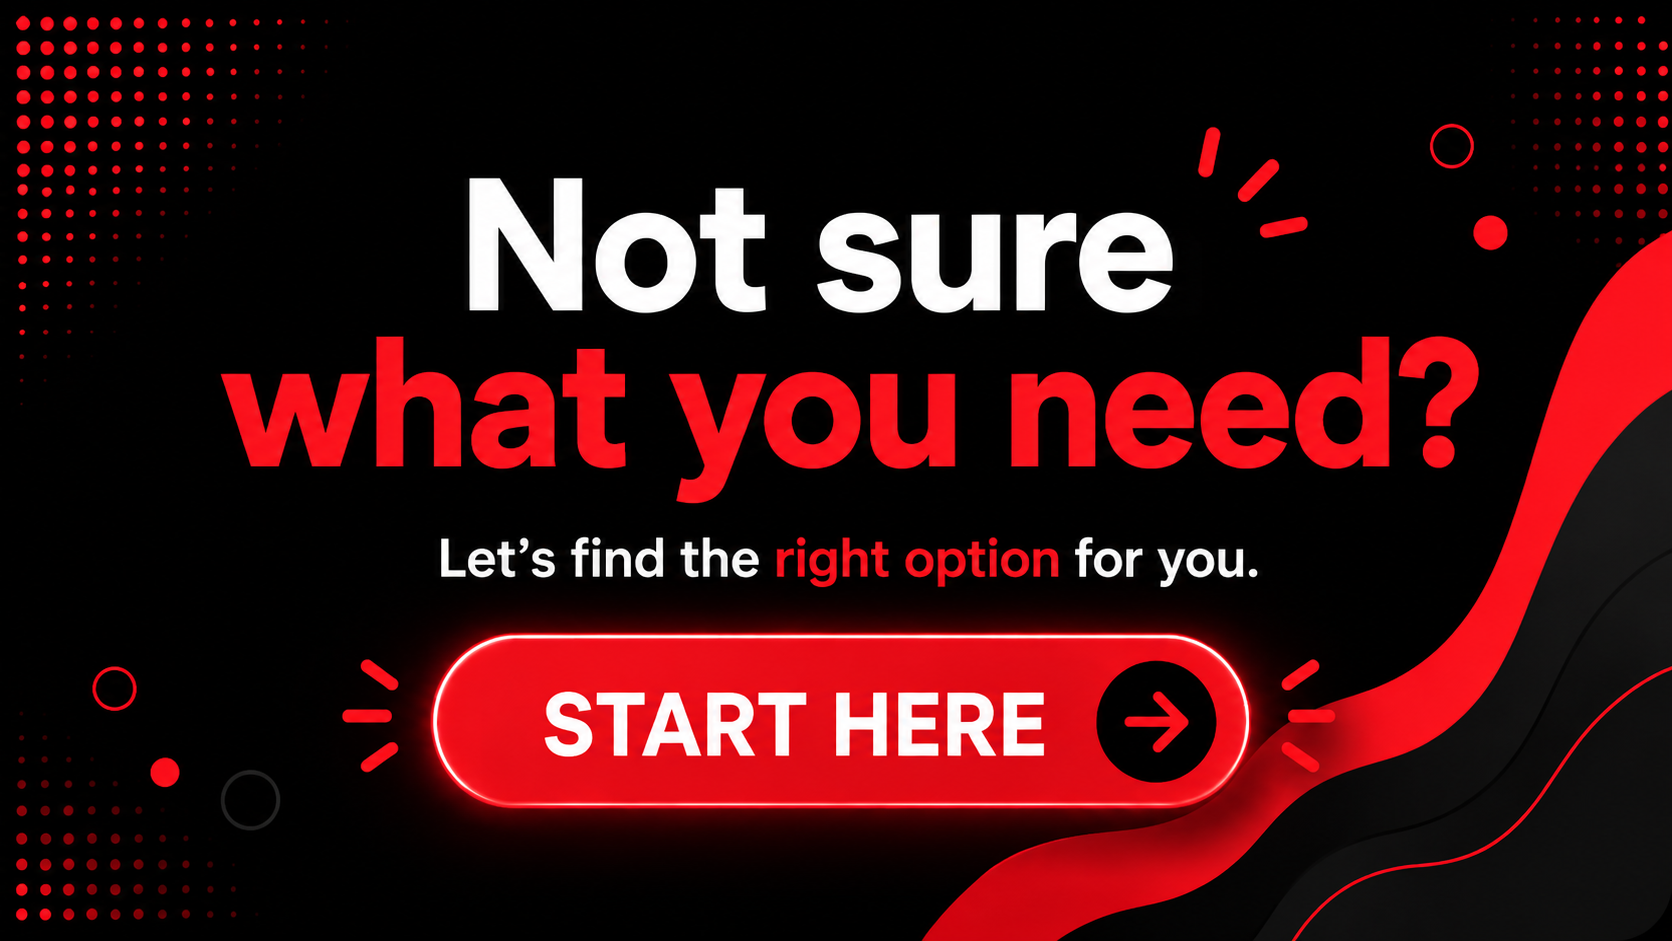
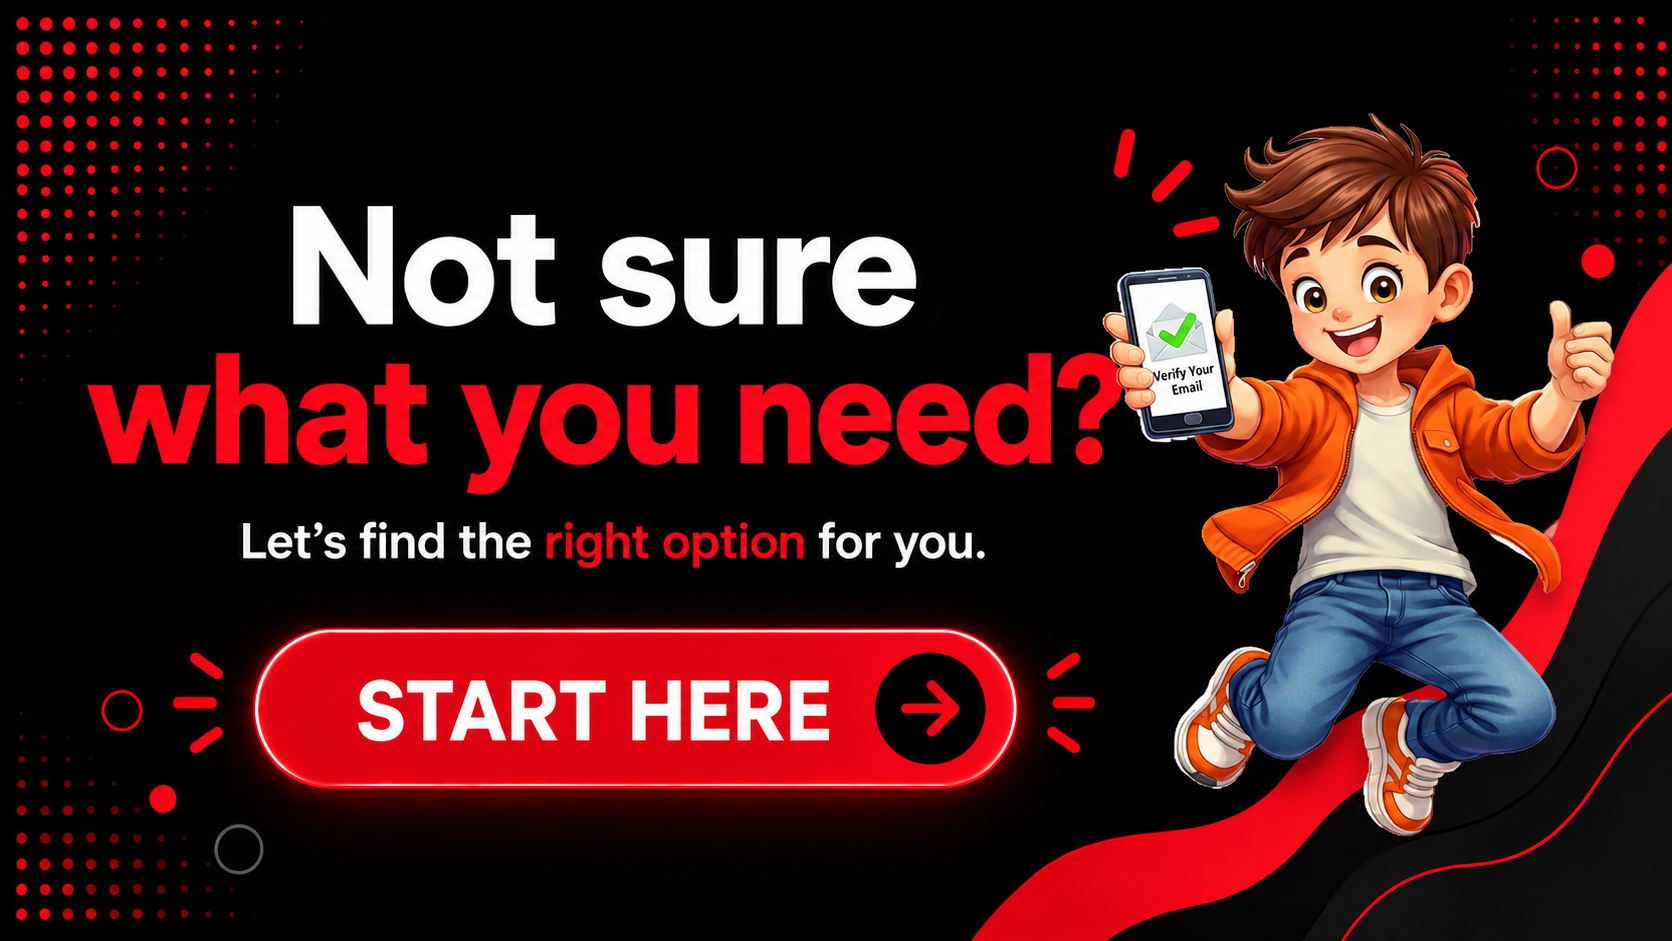
add charecter

diff --git a/src/Pages/Info.jsx b/src/Pages/Info.jsx
@@ -23,7 +23,7 @@ export default function Info() {
             </div>
 
             {/* Scrollable Content */}
-            <section className="flex-1 overflow-y-auto px-6">
+            <section className="flex-1 overflow-y-auto px-6 z-9">
                 <div className="pb-4">
                     <h1 className="mt-14 text-2xl font-semibold text-center">
                         Refill Flow
@@ -37,7 +37,7 @@ export default function Info() {
                         <p>Note : Required For SIM Activation & Invoicing</p>
                     </div>
 
-                    <div className="mt-6 space-y-3">
+                    <div className="mt-6 space-y-3 bg-white/20 backdrop-blur-xl">
                         <input
                             type="text"
                             placeholder="Physical SIM"
@@ -111,12 +111,19 @@ export default function Info() {
                 </div>
             </section>
 
+
+            <img
+                src="/assets/bg-e.png"
+                alt=""
+                className="pointer-events-none fixed -bottom-40 left-1/2 w-130 max-w-xl -translate-x-1/2"
+            />
+
             {/* Fixed Footer */}
-            <div className="shrink-0 bg-white border-t border-gray-100 px-6 py-4">
-                <div className="max-w-[300px] mx-auto grid grid-cols-2 gap-3">
+            <div className="shrink-0 px-6 py-4 z-9">
+                <div className="max-w-75 mx-auto grid grid-cols-2 gap-3">
                     <button
                         onClick={() => window.history.back()}
-                        className="h-10 rounded-full border border-black px-4 text-xs font-semibold flex items-center justify-center gap-2"
+                        className="h-10 rounded-full border border-white text-white px-4 text-xs font-semibold flex items-center justify-center gap-2"
                     >
                         <ArrowLeft className="w-4 h-4" />
                         Back
@@ -124,7 +131,7 @@ export default function Info() {
 
                     <Link
                         to="/term"
-                        className="h-10 rounded-full bg-[var(--primary-color)] text-white text-xs font-semibold flex items-center justify-center"
+                        className="h-10 rounded-full bg-black text-white text-xs font-semibold flex items-center justify-center"
                     >
                         Next
                     </Link>

diff --git a/src/Pages/CheckComp.jsx b/src/Pages/CheckComp.jsx
@@ -30,13 +30,13 @@ export default function CheckComp() {
                 </div>
 
                 {/* Instruction Box */}
-                <div className="mt-8 w-full max-w-[300px] rounded-2xl bg-white shadow-xl py-5 px-4 border border-gray-100">
+                <div className="mt-8 w-full max-w-75 rounded-2xl bg-white shadow-xl py-5 px-4 border border-gray-100">
                     <h3 className="text-xl font-bold text-(--primary-color)">*#06#</h3>
                     <p className="text-xs mt-1 text-gray-600">Your IMEI number will appear on the screen</p>
                 </div>
 
                 {/* IMEI Input Section */}
-                <div className="mt-6 mb-6 w-full max-w-[300px] rounded-2xl bg-[#fff0f7] border border-(--primary-color)/20 p-6 shadow-sm">
+                <div className="mt-6 mb-6 w-full max-w-75 rounded-2xl border border-white/30 bg-white/20 backdrop-blur-xl p-6">
                     <p className="text-[20px] font-bold text-gray-800 uppercase tracking-widest mb-3">CHECK YOUR DEVICE COMPATIBILITY</p>
                     <input 
                         type="text" 
@@ -53,18 +53,24 @@ export default function CheckComp() {
                 </div>
             </section>
 
+            <img
+                src="/assets/bg-e.png"
+                alt=""
+                className="pointer-events-none fixed -bottom-40 left-1/2 z-0 w-130 max-w-xl -translate-x-1/2"
+            />
+
             {/* Bottom Buttons Section */}
-            <div className="mt-auto mb-8 w-full max-w-[300px] z-10">
+            <div className="mt-auto mb-8 w-full max-w-75 z-10">
                 <div className="grid grid-cols-2 gap-3">
                     <button 
                         onClick={() => window.history.back()} 
-                        className="h-10 rounded-full border border-black px-4 text-xs font-semibold flex items-center justify-center gap-2"
+                        className="h-10 rounded-full border border-white text-white px-4 text-xs font-semibold flex items-center justify-center gap-2"
                     >
                         <ArrowLeft className="w-4 h-4" /> Back
                     </button>
                     <Link 
                         to="/plan" 
-                        className="h-10 rounded-full bg-(--primary-color) text-white text-xs font-semibold flex items-center justify-center hover:bg-(--secondary-color)"
+                        className="h-10 rounded-full bg-black text-white text-xs font-semibold flex items-center justify-center hover:bg-(--secondary-color)"
                     >
                         Skip
                     </Link>

diff --git a/src/Pages/AddInfo.jsx b/src/Pages/AddInfo.jsx
@@ -46,9 +46,16 @@ export default function Info() {
                 </div>
             </section>
 
+
+            <img
+                src="/assets/character.png"
+                alt=""
+                className="fixed bottom-0 left-1/2 max-w-xl w-70 mb-8"
+            />
+
             {/* Fixed Footer */}
             <div className="shrink-0 bg-white border-t border-gray-100 px-6 py-4">
-                <div className="max-w-[300px] mx-auto grid grid-cols-2 gap-3">
+                <div className="max-w-75 mx-auto grid grid-cols-2 gap-3">
                     <button
                         onClick={() => window.history.back()}
                         className="h-10 rounded-full border border-black px-4 text-xs font-semibold flex items-center justify-center gap-2"
@@ -59,7 +66,7 @@ export default function Info() {
 
                     <Link
                         to="/term"
-                        className="h-10 rounded-full bg-[var(--primary-color)] text-white text-xs font-semibold flex items-center justify-center"
+                        className="h-10 rounded-full bg-(--primary-color) text-white text-xs font-semibold flex items-center justify-center"
                     >
                         Next
                     </Link>

diff --git a/src/Pages/StarterS.jsx b/src/Pages/StarterS.jsx
@@ -1,4 +1,4 @@
-import { ShoppingBagIcon } from "lucide-react";
+import { ArrowRight, ShoppingBagIcon } from "lucide-react";
 import LanguageSelector from "../components/LanguageSelector";
 import { Link } from "react-router-dom";
 
@@ -38,12 +38,12 @@ export default function StartS() {
             </div>
 
             {/* Buttons */}
-            <div className="relative z-10 mt-10 w-full max-w-[300px] px-4 flex flex-col gap-3">
+            <div className="relative z-10 mt-10 w-full max-w-75 px-4 flex flex-col gap-3">
                 {menuItems.map((item) => (
                     <Link key={item.label} to={item.path} className="block">
-                        <button className="w-full h-10 rounded-full bg-[var(--primary-color)] hover:bg-black duration-300 text-white text-xs font-bold flex items-center justify-between px-5">
+                        <button className="w-full h-10 rounded-full bg-(--primary-color) hover:bg-black duration-300 text-white text-xs font-bold flex items-center justify-between px-5">
                             {item.label}
-                            <span className="text-lg">→</span>
+                            <span className="text-lg"><ArrowRight /></span>
                         </button>
                     </Link>
                 ))}